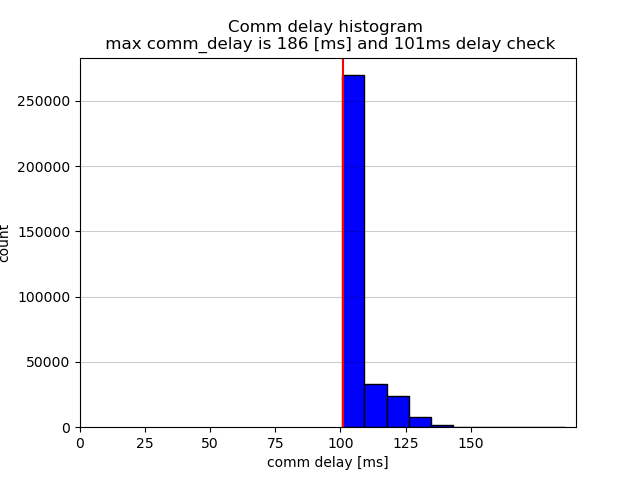
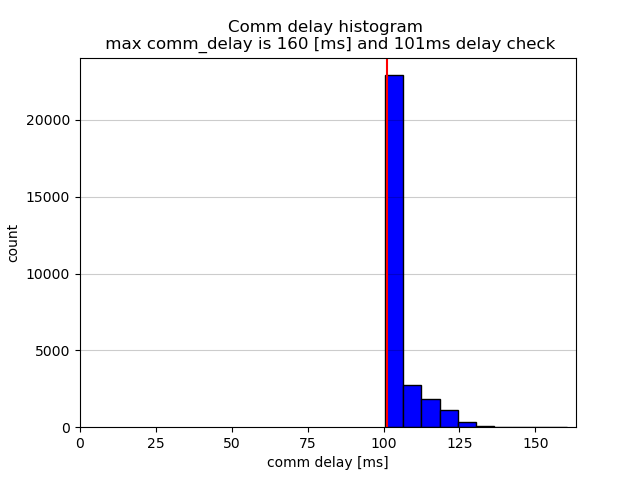
minor

diff --git a/mader/src/mader.cpp b/mader/src/mader.cpp
@@ -1136,47 +1136,52 @@ bool Mader::delayCheck(mt::PieceWisePol pwp_now, const double& headsup_time)
   {
     if (traj_compiled.is_agent == true)
     {
-      if (!traj_compiled.is_committed)
+      if (trajsAndPwpAreInCollision(traj_compiled, pwp_now, pwp_now.times.front(), pwp_now.times.back()))
       {
-        // if (headsup_time < traj_compiled.time_created)
-        if (traj_compiled.time_created - headsup_time > 1e-2)
-        {
-          // Do nothing. They will change their traj.
-        }
-        else if (headsup_time - traj_compiled.time_created > 1e-2 &&
-                 trajsAndPwpAreInCollision(traj_compiled, pwp_now, pwp_now.times.front(), pwp_now.times.back()))
-        {
-          ROS_ERROR_STREAM("In delay check traj_compiled collides with " << traj_compiled.id);
-          result = false;  // will have to redo the optimization
-        }
-        else if (abs(traj_compiled.time_created - headsup_time) < 1e-2 &&
-                 trajsAndPwpAreInCollision(traj_compiled, pwp_now, pwp_now.times.front(),
-                                           pwp_now.times.back()))  // tie breaking: compare x, y, z and bigger one wins
-        {
-          Eigen::Vector3d center_obs;
-          center_obs << traj_compiled.function[0].value(), traj_compiled.function[1].value(),
-              traj_compiled.function[2].value();
-          if (center_obs[0] > state_.pos[0])
-          {
-            result = false;
-          }
-          else if (center_obs[1] > state_.pos[1])
-          {
-            result = false;
-          }
-          else if (center_obs[2] > state_.pos[2])
-          {
-            result = false;
-          }
-          // center_obs[0] == state_.pos[0] &&  center_obs[1] == state_.pos[1] &&  center_obs[2] == state_.pos[2] won't
-          // happen bc it's the same position and collision
-        }
+        result = false;
       }
-      else if (trajsAndPwpAreInCollision(traj_compiled, pwp_now, pwp_now.times.front(), pwp_now.times.back()))
-      {
-        ROS_ERROR_STREAM("In delay check traj_compiled collides with " << traj_compiled.id);
-        result = false;  // will have to redo the optimization
-      }
+
+      // if (!traj_compiled.is_committed)
+      // {
+      //   // if (headsup_time < traj_compiled.time_created)
+      //   if (traj_compiled.time_created > headsup_time)
+      //   {
+      //     // Do nothing. They will change their traj.
+      //   }
+      //   else if (headsup_time - traj_compiled.time_created > 1e-2 &&
+      //            trajsAndPwpAreInCollision(traj_compiled, pwp_now, pwp_now.times.front(), pwp_now.times.back()))
+      //   {
+      //     ROS_ERROR_STREAM("In delay check traj_compiled collides with " << traj_compiled.id);
+      //     result = false;  // will have to redo the optimization
+      //   }
+      //   else if (abs(traj_compiled.time_created - headsup_time) < 1e-2 &&
+      //            trajsAndPwpAreInCollision(traj_compiled, pwp_now, pwp_now.times.front(),
+      //                                      pwp_now.times.back()))  // tie breaking: compare x, y, z and bigger one wins
+      //   {
+      //     Eigen::Vector3d center_obs;
+      //     center_obs << traj_compiled.function[0].value(), traj_compiled.function[1].value(),
+      //         traj_compiled.function[2].value();
+      //     if (center_obs[0] > state_.pos[0])
+      //     {
+      //       result = false;
+      //     }
+      //     else if (center_obs[1] > state_.pos[1])
+      //     {
+      //       result = false;
+      //     }
+      //     else if (center_obs[2] > state_.pos[2])
+      //     {
+      //       result = false;
+      //     }
+      //     // center_obs[0] == state_.pos[0] &&  center_obs[1] == state_.pos[1] &&  center_obs[2] == state_.pos[2] won't
+      //     // happen bc it's the same position and collision
+      //   }
+      // }
+      // else if (trajsAndPwpAreInCollision(traj_compiled, pwp_now, pwp_now.times.front(), pwp_now.times.back()))
+      // {
+      //   ROS_ERROR_STREAM("In delay check traj_compiled collides with " << traj_compiled.id);
+      //   result = false;  // will have to redo the optimization
+      // }
     }
     else
     {  // if traj_compiled.is_agent == false

diff --git a/mader/src/mader_ros.cpp b/mader/src/mader_ros.cpp
@@ -19,7 +19,8 @@
 
 #include <jsk_rviz_plugins/OverlayText.h>
 
-#include <random>
+#include <stdlib.h>     /* srand, rand */
+#include <time.h>       /* time */
 
 typedef MADER_timers::Timer MyTimer;
 
@@ -549,7 +550,8 @@ void MaderRos::replanCB(const ros::TimerEvent& e)
     //   // std::uniform_real_distribution<float> distr(0, 1);  // sleep between 0 and 1 sec
     //   // ros::Duration(distr(eng)).sleep();
 
-    //   ros::Duration(0.1 * id_).sleep();
+    //   srand (time(NULL));
+    //   ros::Duration(0.25*id_).sleep(); // random wait time between 0 to 3
     //   is_replanCB_called_ = true;
     // }
 

diff --git a/mader/scripts/run_many_sims_multi_agent.py b/mader/scripts/run_many_sims_multi_agent.py
@@ -38,7 +38,7 @@ if __name__ == '__main__':
 
     # parameters
     is_oldmader=True
-    num_of_sims=60
+    num_of_sims=1
     num_of_agents=10
     how_long_to_wait = 20 #[s]
     if is_oldmader:
